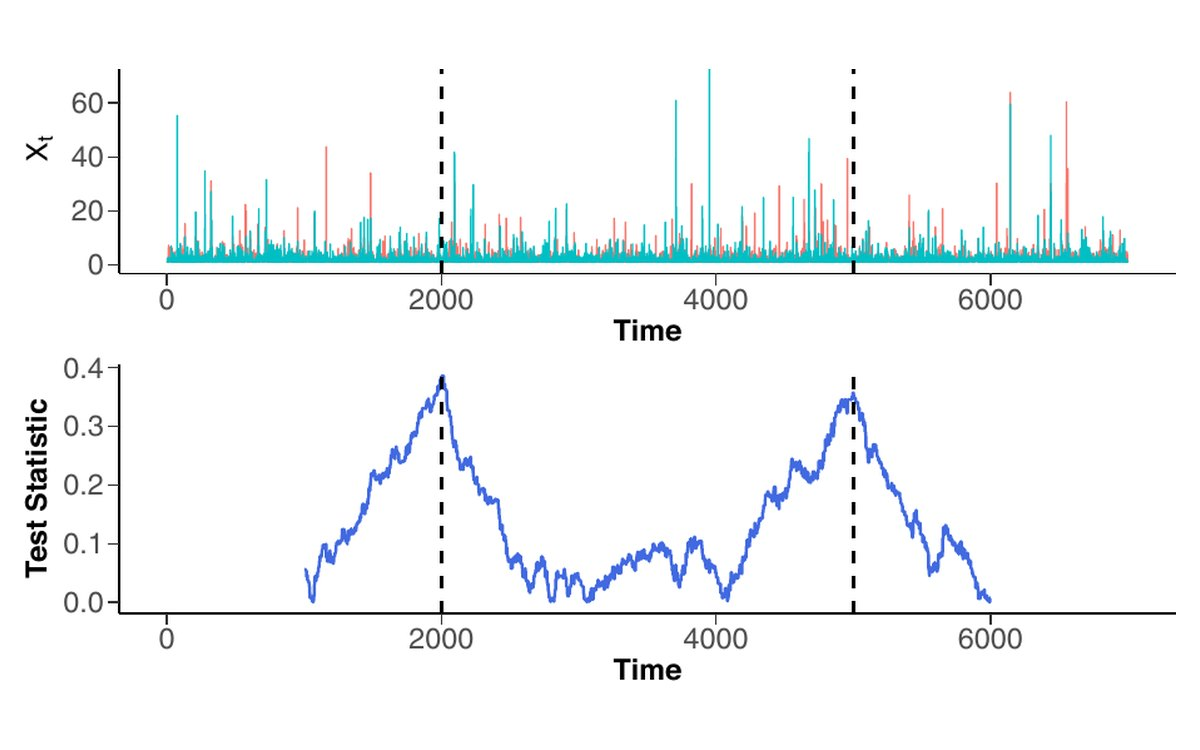
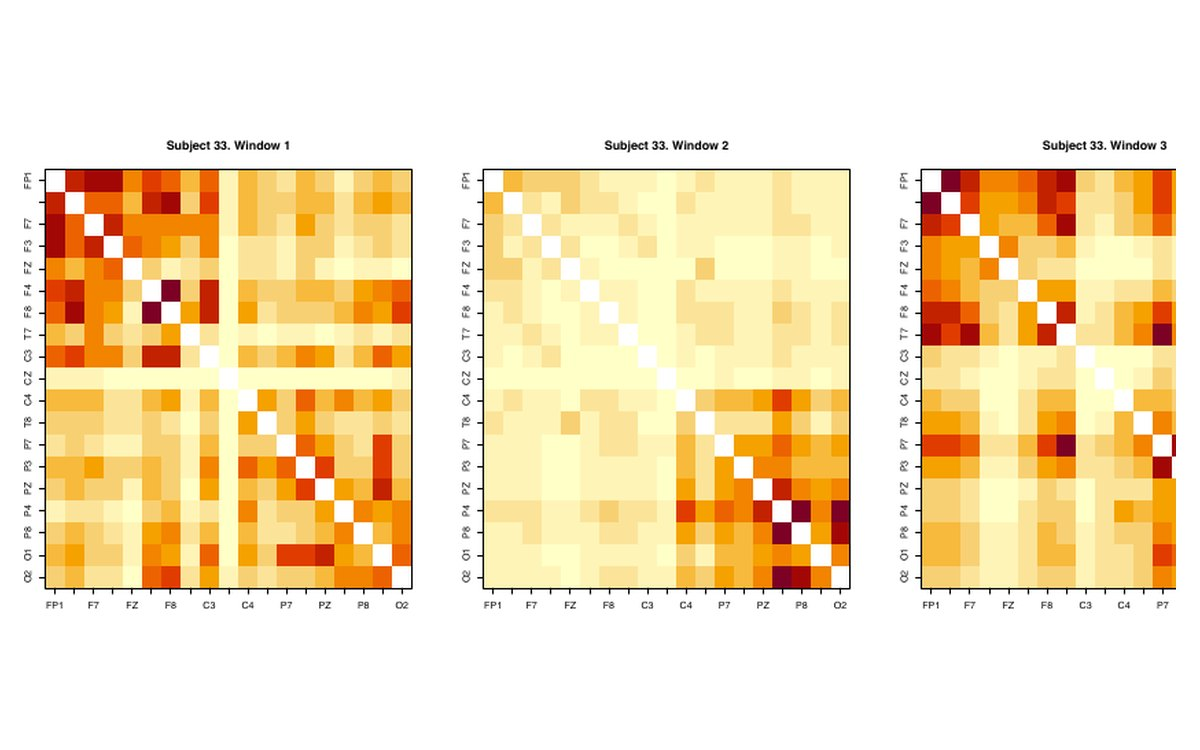
Swap MOPED and TrendLSW thumbnails to Fig. 5 and Fig. 10
- MOPED thumbnail shows the middle row of Fig. 5; clicking opens the full figure
- New optional image_full field for the enlarged view

Claude-Session: https://claude.ai/code/session_01QzTJhNw3nyuY1ierqvLfiV

diff --git a/_includes/modern/publications.html b/_includes/modern/publications.html
@@ -26,7 +26,7 @@
         <div class="pub__year">{% if y != last_year %}{{ y }}{% endif %}</div>
         {% if p.image %}
         <div class="pub__thumb pub__thumb--img">
-          <button type="button" data-lightbox="{{ p.image | relative_url }}" data-caption="{{ p.title | escape }}" aria-label="Enlarge figure from {{ p.title | escape }}">
+          <button type="button" data-lightbox="{{ p.image_full | default: p.image | relative_url }}" data-caption="{{ p.title | escape }}" aria-label="Enlarge figure from {{ p.title | escape }}">
             <img src="{{ p.image | relative_url }}" alt="Figure from {{ p.title | escape }}" loading="lazy" width="1200" height="750">
           </button>
         </div>
